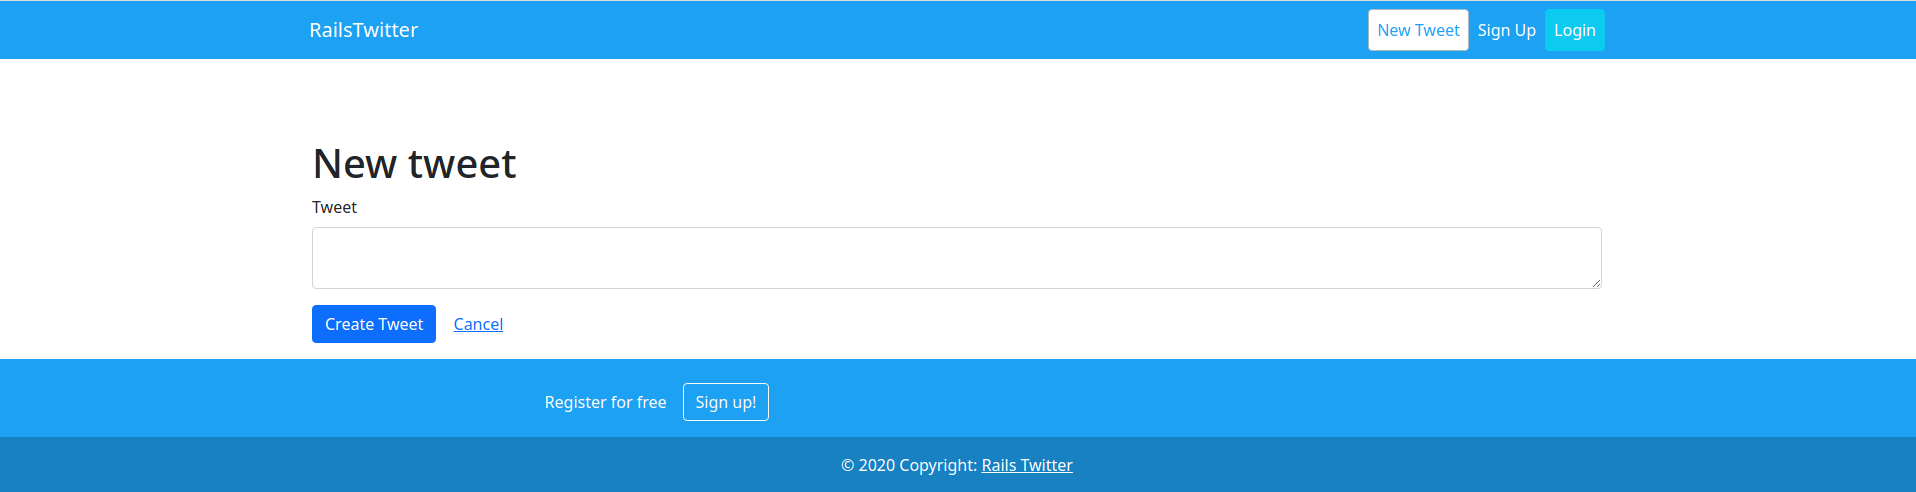
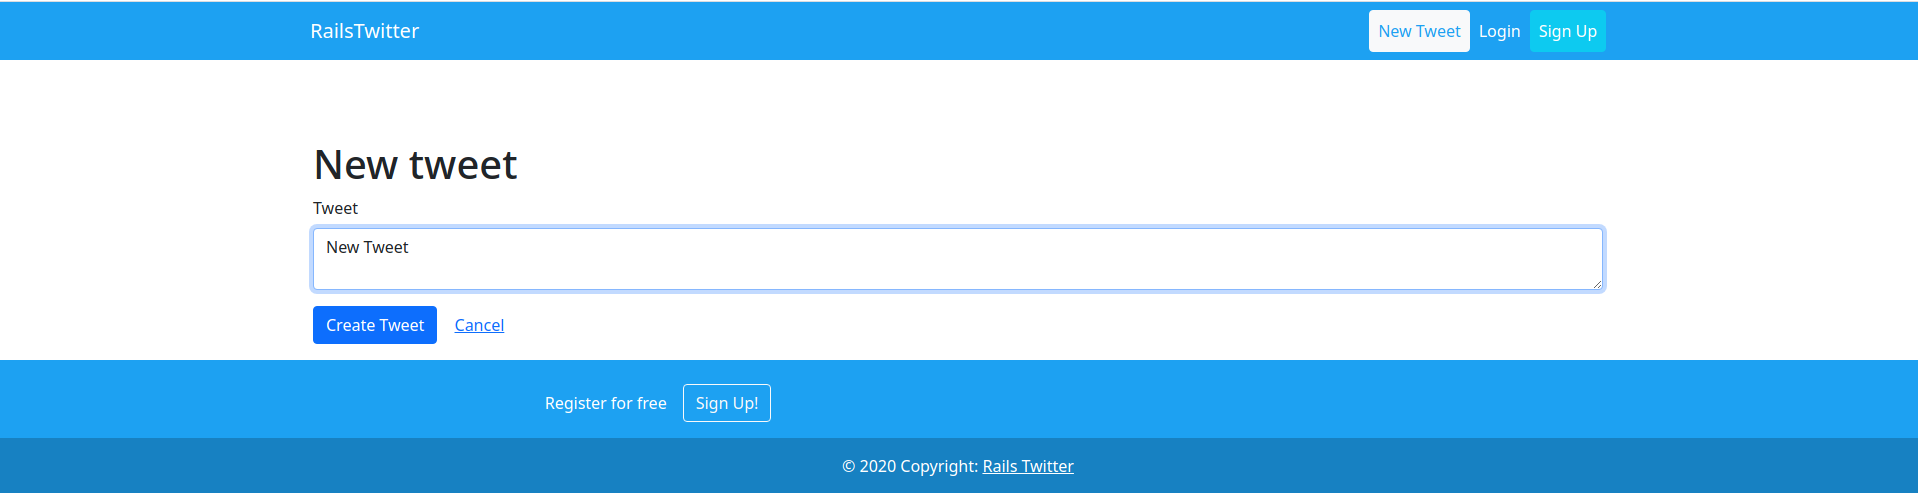
Edits

diff --git a/app/assets/stylesheets/application.scss b/app/assets/stylesheets/application.scss
@@ -18,11 +18,8 @@ color:white!important;
 .navbar-brand {
 color: white!important;
 }
-.btn-secondary {
-  background-color: white!important;
-  border-color:#AAB8C2!important;
-}
-a.btn.btn-secondary {
+
+a.btn.btn-light {
   color:#1DA1F2!important;
 }
 
